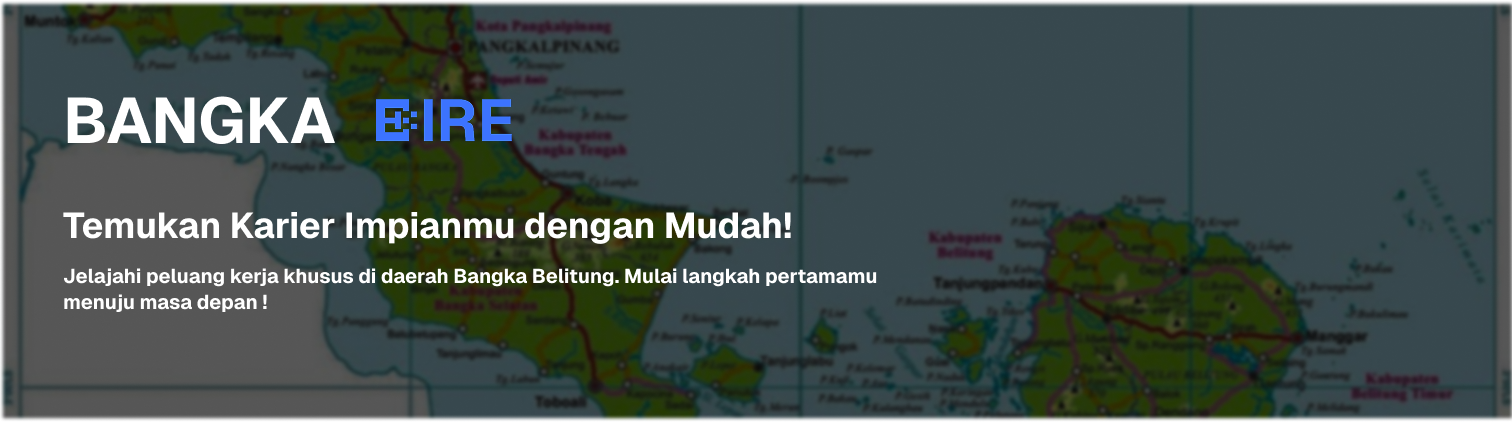
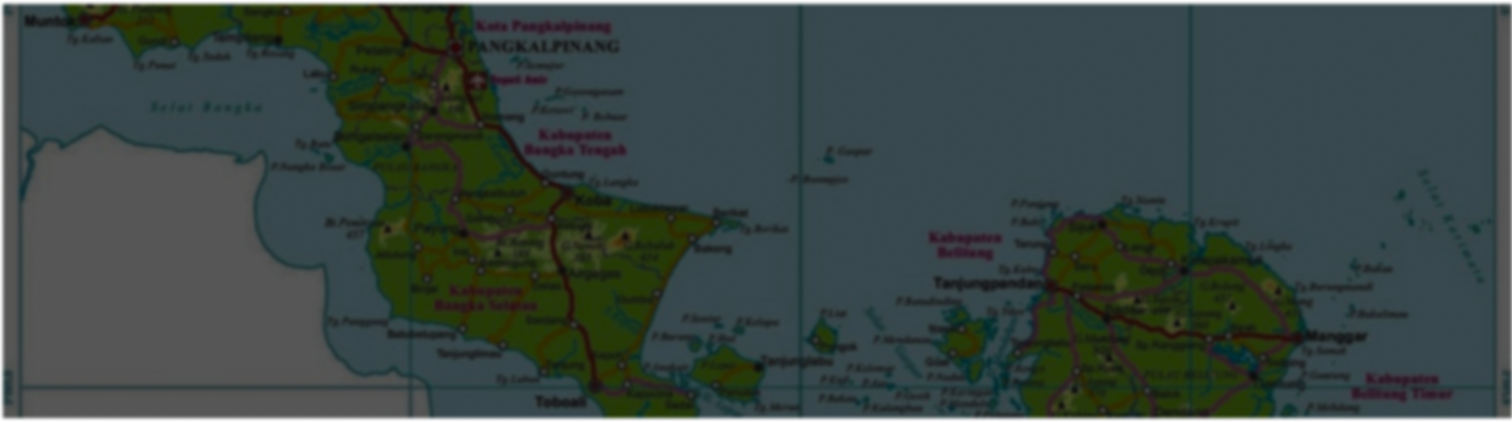
pages:landing page complete no responsive

diff --git a/src/components/form-search-job.tsx b/src/components/form-search-job.tsx
@@ -1,0 +1,64 @@
+"use client";
+
+import { useState } from "react";
+import { ChevronDown } from "lucide-react";
+
+
+export default function FormSearchJob() {
+  const [openSelect, setOpenSelect] = useState<string | null>(null);
+  return (
+    <form action="" className='flex items-center w-full gap-6 text-black'>
+        <div className='w-[60%]'>
+          <input type="text" className='w-full rounded-lg p-2 focus:outline-none' placeholder='Cari berdasarkan posisi atau nama perusahaan' />
+        </div>
+
+        {/* Select untuk filter lokasi */}
+        <div className="relative w-[20%]">
+          <select
+            className="appearance-none w-full rounded-lg p-2 border border-gray-300 focus:outline-none cursor-pointer"
+            onClick={() => setOpenSelect(openSelect === "location" ? null : "location")}
+          >
+            <option value="" selected disabled>Pilih Lokasi...</option>
+            <option value="Pangkal Pinang">Pangkal Pinang</option>
+            <option value="Sungailiat">Sungailiat</option>
+            <option value="Koba">Koba</option>
+            <option value="Toboali">Toboali</option>
+            <option value="Muntok">Muntok</option>
+            <option value="Tanjung Pandan">Tanjung Pandan</option>
+            <option value="Manggar">Manggar</option>
+          </select>
+
+          {/* Custom Icon */}
+          <div
+            className={`absolute top-1/2 right-3 transform -translate-y-1/2 transition-transform duration-300 ${
+              openSelect === "location" ? "rotate-180" : ""
+            }`}
+          >
+            <ChevronDown className="w-6 h-6 text-black" />
+          </div>
+        </div>
+
+        {/* Select untuk filter urutan gaji */}
+        <div className="relative w-[20%]">
+          <select
+            className="appearance-none w-full rounded-lg p-2 border border-gray-300 focus:outline-none cursor-pointer"
+            onClick={() => setOpenSelect(openSelect === "salary" ? null : "salary")}
+          >
+            <option value="" selected disabled>Urutkan Gaji...</option>
+            <option value="Tertinggi">Tertinggi</option>
+            <option value="Terendah">Terendah</option>
+          </select>
+
+          {/* Custom Icon */}
+          <div
+            className={`absolute top-1/2 right-3 transform -translate-y-1/2 transition-transform duration-300 ${
+              openSelect === "salary" ? "rotate-180" : ""
+            }`}
+          >
+            <ChevronDown className="w-6 h-6 text-black" />
+          </div>
+        </div>
+
+    </form>
+  )
+}

diff --git a/src/components/header.tsx b/src/components/header.tsx
@@ -1,7 +1,7 @@
 "use client"
 
 
-import React, { useState } from 'react';
+import React, { useEffect, useState } from 'react';
 import Image from "next/image";
 import logo from "../assets/logo.png";
 import NavLink from "./nav-link";
@@ -9,6 +9,17 @@ import { motion } from "framer-motion";
 
 export default function Header() {
   const [isOpen, setIsOpen] = useState(false);
+  const [isScroll, setIsScroll] = useState(false);
+
+  useEffect(() => {
+    const handleScroll = () => {
+      setIsScroll(window.scrollY > 50);
+    };
+    window.addEventListener("scroll", handleScroll);
+    return () => {
+      window.removeEventListener("scroll", handleScroll);
+    };
+  }, []);
 
   const Path = (props : any) => (
     <motion.span
@@ -18,8 +29,8 @@ export default function Header() {
   );
 
   return (
-    <header className="bg-white text-primary_color">
-      <nav className="flex justify-between items-center w-full md:max-w-7xl xl:mx-auto py-2 px-6 md:px-[30px]">
+    <header className={`bg-white text-primary_color sticky top-0 z-50 ${isScroll ? "border-b-2 border-primary_color" : ""} duration-300 ease-in-out`}>
+      <nav className="flex justify-between items-center w-full xl:mx-auto py-2 px-6 md:px-[30px] lg:px-20">
         {/* Logo dan menu navbar */}
         <div className="flex items-center md:gap-5 xl:gap-10">
           <Image className="w-20 md:w-24 xl:w-32" src={logo} alt="logo" />
@@ -27,7 +38,7 @@ export default function Header() {
           {/* menu navbar */}
           <div className="hidden md:flex md:gap-5 xl:gap-10">
             <NavLink href="/">BERANDA</NavLink>
-            <NavLink href="/review-perusahaan">REVIEW PERUSAHAAN</NavLink>
+            <NavLink href="/review-vacancy-provider">REVIEW PERUSAHAAN</NavLink>
           </div>
         </div>
 
@@ -83,7 +94,7 @@ export default function Header() {
         >
           <div className="flex flex-col p-4 gap-4">
             <NavLink href="/">BERANDA</NavLink>
-            <NavLink href="/review-perusahaan">REVIEW PERUSAHAAN</NavLink>
+            <NavLink href="/review-vacancy-provider">REVIEW PERUSAHAAN</NavLink>
             <div className="border-t border-primary_color my-2" />
             <NavLink href="/login">MASUK</NavLink>
             <NavLink href="/sign-up">UNTUK PEMBERI KERJA</NavLink>

diff --git a/src/components/card-result-job.tsx b/src/components/card-result-job.tsx
@@ -1,0 +1,59 @@
+import Image from 'next/image';
+import logo from '../assets/logo.png';
+import location from '../assets/location.png';
+import salary from '../assets/salary.png';
+import status from '../assets/status-work.png';
+import time from '../assets/time.png';
+import Link from 'next/link';
+
+
+export default function CardResultJob() {
+  return (
+    <div className="w-[365px] shadow-2xl bg-white rounded-lg p-4 border border-primary_color">
+      {/* Logo company */}
+      <Image className='w-24' src={logo} alt="Logo"  />
+      {/* informasi singkat dari nama perusahaan, posisi, gaji, dll */}
+      <div className='text-black mt-4 space-y-2'>
+        <div className='text-primary_color'>
+          <h3 className='text-2xl font-bold line-clamp-1'>PT. BabelHire</h3>
+          <p className='text-lg font-medium line-clamp-1'>Frontend Developer</p>
+        </div>
+
+        {/* Informasi lokasi perusahaan dan gaji dan status pekerjaan */}
+        <div className='font-medium text-sm'>
+          {/* location */}
+          <div className='flex items-center gap-2'>
+            <Image className='w-4' src={location} alt="Location" />
+            <p>Pangkal Pinang, Bangka Belitung</p>
+          </div>
+
+          {/* salary */}
+          <div className='flex items-center gap-2'>
+            <Image className='w-4' src={salary} alt="Salary" />
+            <p>Rp. 5.000.000 - Rp. 10.000.000</p>
+          </div>
+
+          {/* status work */}
+          <div className='flex items-center gap-2'>
+            <Image className='w-4' src={status} alt="Status" />
+            <p>Fulltime</p>
+          </div>
+        </div>
+
+        {/* lihat detail button */}
+        <div className='w-full'>
+          <Link href="/detail-job" className='bg-primary_color text-white font-semibold text-center rounded-lg block py-1'>Lihat Detail</Link>
+        </div>
+
+        {/* Garis pemisah */}
+        <div className='w-full h-[2px] bg-primary_color'></div>
+
+        {/* waktu posting */}
+        <div className='flex items-center gap-2'>
+          <Image className='w-4' src={time} alt="Time" />
+          <p>1 hari yang lalu</p>
+        </div>
+      </div>
+    </div>
+  );
+}

diff --git a/src/components/footer.tsx b/src/components/footer.tsx
@@ -1,7 +1,57 @@
+import Image from "next/image";
+import logo2 from "../assets/logo 2.png";
+import Layout from "./container";
+import instagram from "../assets/instagram.png";
+import facebook from "../assets/facebook.png";
+import thread from "../assets/thread.png";
+import Link from "next/link";
+
 export default function Footer() {
   return (
-    <footer>
-      <div></div>
+    <footer className="bg-secondary_color_1 text-white w-full mt-32 py-10">
+      <Layout>
+        <div className="flex justify-between items-start">
+          {/* logo dan sosmed */}
+          <div className="space-y-4">
+            <Image src={logo2} alt="logo" />
+            <p>Platform lowongan kerja terpercaya seluruh
+            wilayah bangka belitung</p>
+            {/* sosmed */}
+            <div className="flex gap-4 items-center">
+                <Image src={instagram} alt="instagram" />
+                <Image src={facebook} alt="facebook" />
+                <Image src={thread} alt="thread" />
+            </div>
+          </div>
+
+          {/* menu navbar */}
+          <div className="space-y-6">
+            <h1 className="font-bold">Quick Link</h1>
+            <div className="flex flex-col gap-1">
+              <Link href="/">Beranda</Link>
+              <Link href="/review-vacancy-provider">Review Perusahaan</Link>
+            </div>
+          </div>
+
+          {/* Hubungi Kami */}
+          <div className="space-y-6">
+            <h1 className="font-bold">Hubungi Kami</h1>
+            <div className="space-y-1">
+              <p>Pangkal Pinang, Bangka Belitung</p>
+              <p>babelhire@gmail.com</p>
+              <p>0812-3456-7890</p>
+            </div>
+          </div>
+        </div>
+
+        {/* copyright */}
+        {/* Line */}
+        <div className="space-y-4">
+          <div className="w-full h-[2px] bg-white mt-10"></div>
+          <p className="text-center text-lg">Copyright BabelHire Team © 2025. All Rights Reserved.</p>
+        </div>
+
+      </Layout>
     </footer>
   );
 }

diff --git a/src/components/pages/home-page.tsx b/src/components/pages/home-page.tsx
@@ -1,0 +1,48 @@
+
+import Image from 'next/image';
+import hero from '../../assets/Hero Section.png';
+import Layout from '../container';
+import logo from '../../assets/logo.png';
+import FormSearchJob from '../form-search-job';
+import CardResultJob from '../card-result-job';
+
+
+
+export default function HomePage() {
+
+    return (
+        <div className='xl:space-y-14'>
+          {/* Gambar dan tagline */}
+          <div className='relative w-full'>
+            <Image className='w-full' src={hero} alt="Hero Section" />
+            {/* Tagline */}
+            <div className='absolute w-full h-full top-0 flex items-start'>
+                <Layout>
+                  {/* tagline singkat */}
+                  <div className='mt-16 space-y-6 w-[65%]'>
+                    <h1 className='text-4xl font-bold'>Temukan karier impianmu dengan mudah!</h1>
+                    <p className='text-2xl'>Jelajahi peluang kerja khusus di daerah Bangka Belitung. Mulai langkah pertamamu
+                    menuju masa depan !</p>
+                  </div>
+                </Layout>
+            </div>
+          </div>
+
+          <Layout>
+              {/* Search Bar dan filter */}
+              <div className='bg-secondary_color_1 rounded-lg p-10 mb-12'>
+                  <FormSearchJob />
+              </div>
+
+              {/* Card Job */}
+              <div className='grid grid-cols-4 gap-6'>
+                {[...Array(8)].map((_, i) => (
+                  <CardResultJob key={i} />
+                ))}
+              </div>
+          </Layout>
+
+
+        </div>
+    )
+}

diff --git a/src/app/layout.tsx b/src/app/layout.tsx
@@ -5,6 +5,7 @@ import { Geist, Geist_Mono } from "next/font/google";
 import "./globals.css";
 import Wrapper from "./wrapper";
 import Header from "@/components/header";
+import Footer from "@/components/footer";
 const geistSans = Geist({
   variable: "--font-geist-sans",
   subsets: ["latin"],
@@ -25,11 +26,12 @@ export default function RootLayout({ children }: ChildrenProps) {
   return (
     <html lang="en">
       <body
-        className={`${geistSans.variable} ${geistMono.className} antialiased`}
+        className={`${geistSans.className} ${geistMono.variable} antialiased text-white`}
       >
         <Wrapper>
           <Header />
           {children}
+          <Footer />
         </Wrapper>
       </body>
     </html>

diff --git a/src/components/nav-link.tsx b/src/components/nav-link.tsx
@@ -8,7 +8,7 @@ import { usePathname } from 'next/navigation';
 const NavLink: React.FC<{ href: string, children: React.ReactNode }> = ({ href, children }) => {
   const pathname = usePathname();
   return (
-    <Link className={`border px-3 py-[1px] border-primary_color rounded-full text-center text-sm lg:text-base
+    <Link className={`border px-3 py-[1px] border-primary_color rounded-sm text-center text-sm lg:text-base
                       ${pathname === href ? "bg-primary_color text-white" : "text-primary_color"}`} href={href}>
       {children}
     </Link>

diff --git a/src/app/page.tsx b/src/app/page.tsx
@@ -1,12 +1,10 @@
-import { Input } from "@/components/ui/input";
+
+import HomePage from "@/components/pages/home-page";
 
 export default function Home() {
   return (
     <div>
-      <div>
-        <Input placeholder="Cari lowongan kerja...." type="text" />
-        <Input placeholder="Lokasi" />
-      </div>
+      <HomePage />
     </div>
   );
 }

diff --git a/tailwind.config.ts b/tailwind.config.ts
@@ -41,6 +41,7 @@ export default {
   				foreground: 'hsl(var(--destructive-foreground))'
   			},
         primary_color:'#3C74FF',
+        secondary_color_1 : '#2A72B3',
   			border: 'hsl(var(--border))',
   			input: 'hsl(var(--input))',
   			ring: 'hsl(var(--ring))',

diff --git a/src/components/container.tsx b/src/components/container.tsx
@@ -1,7 +1,7 @@
 import { ChildrenProps } from "@/types";
 
 const Layout = ({ children }: ChildrenProps) => {
-  return <div className="container mx-auto max-w-7xl">{children}</div>;
+  return <div className="px-20">{children}</div>;
 };
 
 export default Layout;
